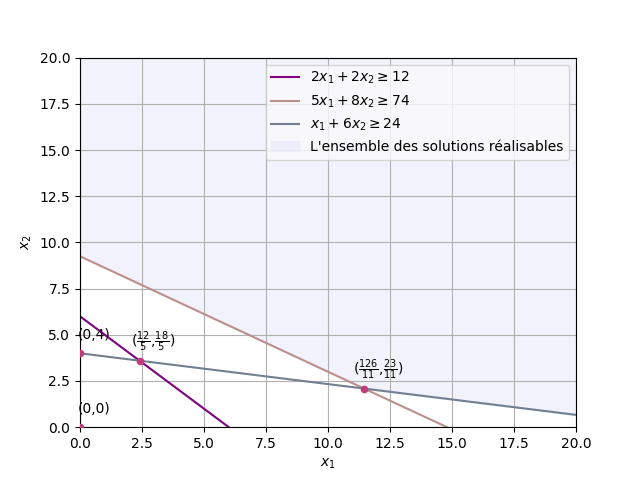
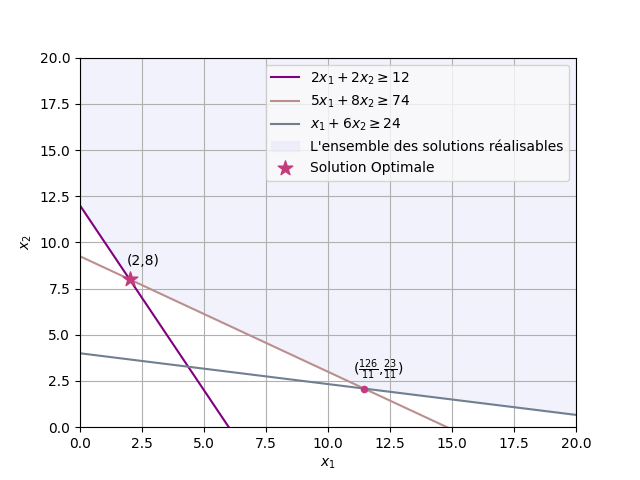
fix figure 2

diff --git a/Recherche Operationelle/plot_02.py b/Recherche Operationelle/plot_02.py
@@ -2,13 +2,13 @@ import matplotlib.pyplot as plt
 import numpy as np
 
 x_1 = np.linspace(0, 20, 400)
-c_1 = (12 - 2 * x_1) / 2
+c_1 = 12 - 2 * x_1
 c_2 = (74 - 5 * x_1) / 8
 c_3 = (24 - x_1) / 6
 
-x1_points = [0, 0, 12/5, 126/11]
-x2_points = [0, 4, 18/5, 23/11]
-x_1_x_2_labels = ['(0,0)', '(0,4)', r'($\frac{12}{5}$,$\frac{18}{5}$)', r'($\frac{126}{11}$,$\frac{23}{11}$)']
+x1_points = [2, 126/11]
+x2_points = [8, 23/11]
+x_1_x_2_labels = ['(2,8)', r'($\frac{126}{11}$,$\frac{23}{11}$)']
 
 plt.plot(x_1, c_1, label=r'$2x_1 + 2x_2 \geq 12$', color='purple')
 plt.plot(x_1, c_2, label=r'$5x_1 + 8x_2 \geq 74$', color='#BC8F8F')
@@ -18,7 +18,8 @@ plt.plot(x_1, c_3, label=r'$x_1 + 6x_2 \geq 24$', color='#708090')
 c_feasible = np.maximum.reduce([c_1, c_2, c_3])
 plt.fill_between(x_1, c_feasible, 20, color='lavender', alpha=0.5, label="L'ensemble des solutions réalisables")
 
-plt.scatter(x1_points, x2_points, color='#C43B7B', s=20, zorder=3)
+plt.scatter(126/11, 23/11, color='#C43B7B', s=20, zorder=3)
+plt.scatter(2, 8, color='#C43B7B', s=120, marker='*', label='Solution Optimale', zorder=3)
 
 for i, txt in enumerate(x_1_x_2_labels):
     plt.annotate(txt,

diff --git a/Recherche Operationelle/plot_06.py b/Recherche Operationelle/plot_06.py
@@ -1,0 +1,32 @@
+import matplotlib.pyplot as plt
+import numpy as np
+
+x_1 = np.linspace(0, 20, 400)
+c_1 = (81 - 3 * x_1) / 9
+c_2 = (55 - 4 * x_1) / 5
+c_3 = 20 - 2 * x_1
+
+plt.plot(x_1, c_1, label=r'$3x_1 + 9x_2 \leq 81$', color='purple')
+plt.plot(x_1, c_2, label=r'$4x_1 + 5x_2 \leq 55$', color='#BC8F8F')
+plt.plot(x_1, c_3, label=r'$2x_1 + x_2 \leq 20$', color='#708090')
+
+
+c_feasible = np.maximum.reduce([c_1, c_2, c_3])
+plt.fill_between(x_1, c_feasible, 20, color='lavender', alpha=0.5, label="L'ensemble des solutions réalisables")
+
+plt.scatter(0,0, color='#C43B7B', s=20, zorder=3)
+
+plt.annotate(r'($\frac{126}{11}$,$\frac{23}{11}$)',
+             (0,0),
+             textcoords="offset points",
+             xytext=(10, 10),
+             ha='center', zorder=4)
+
+plt.xlim(0, 20)
+plt.ylim(0, 20)
+plt.xlabel('$x_1$')
+plt.ylabel('$x_2$')
+plt.legend(loc='upper right', facecolor='#FAFAFA')
+plt.grid(True)
+plt.show()
+

diff --git a/Recherche Operationelle/plot_05.py b/Recherche Operationelle/plot_05.py
@@ -1,0 +1,32 @@
+import matplotlib.pyplot as plt
+import numpy as np
+
+x_1 = np.linspace(0, 20, 400)
+c_1 = (18 - x_1) / 3
+c_2 = 8 - x_1 
+c_3 = 14 - 2 * x_1
+
+plt.plot(x_1, c_1, label=r'$x_1 + 3x_2 \leq 18$', color='purple')
+plt.plot(x_1, c_2, label=r'$x_1 + 8x_2 \leq 8$', color='#BC8F8F')
+plt.plot(x_1, c_3, label=r'$2x_1 + x_2 \leq 14$', color='#708090')
+
+
+c_feasible = np.maximum.reduce([c_1, c_2, c_3])
+plt.fill_between(x_1, c_feasible, 20, color='lavender', alpha=0.5, label="L'ensemble des solutions réalisables")
+
+plt.scatter(0,0, color='#C43B7B', s=20, zorder=3)
+
+plt.annotate(r'($\frac{126}{11}$,$\frac{23}{11}$)',
+             (126/11, 23/11),
+             textcoords="offset points",
+             xytext=(10, 10),
+             ha='center', zorder=4)
+
+plt.xlim(0, 20)
+plt.ylim(0, 20)
+plt.xlabel('$x_1$')
+plt.ylabel('$x_2$')
+plt.legend(loc='upper right', facecolor='#FAFAFA')
+plt.grid(True)
+plt.show()
+
